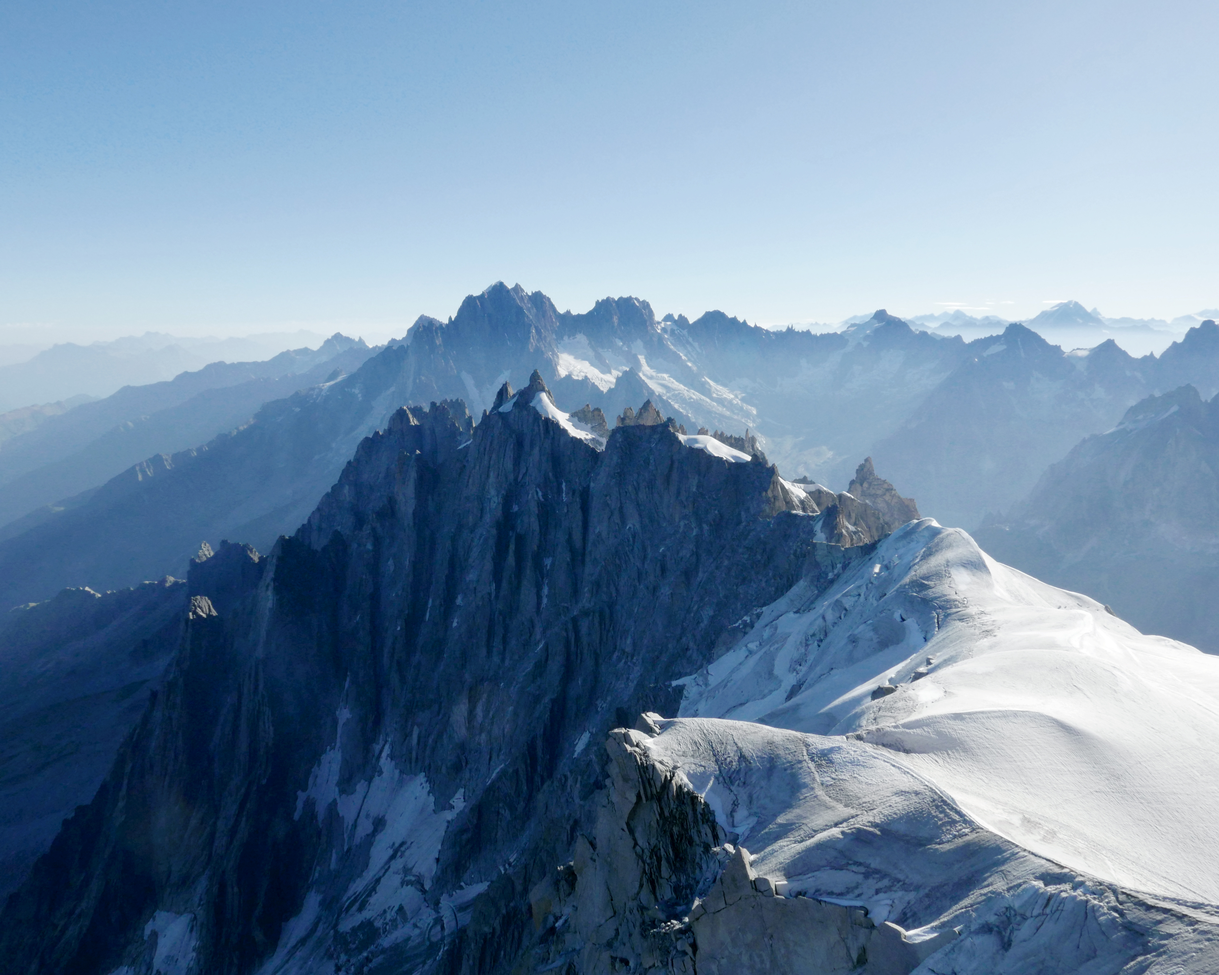
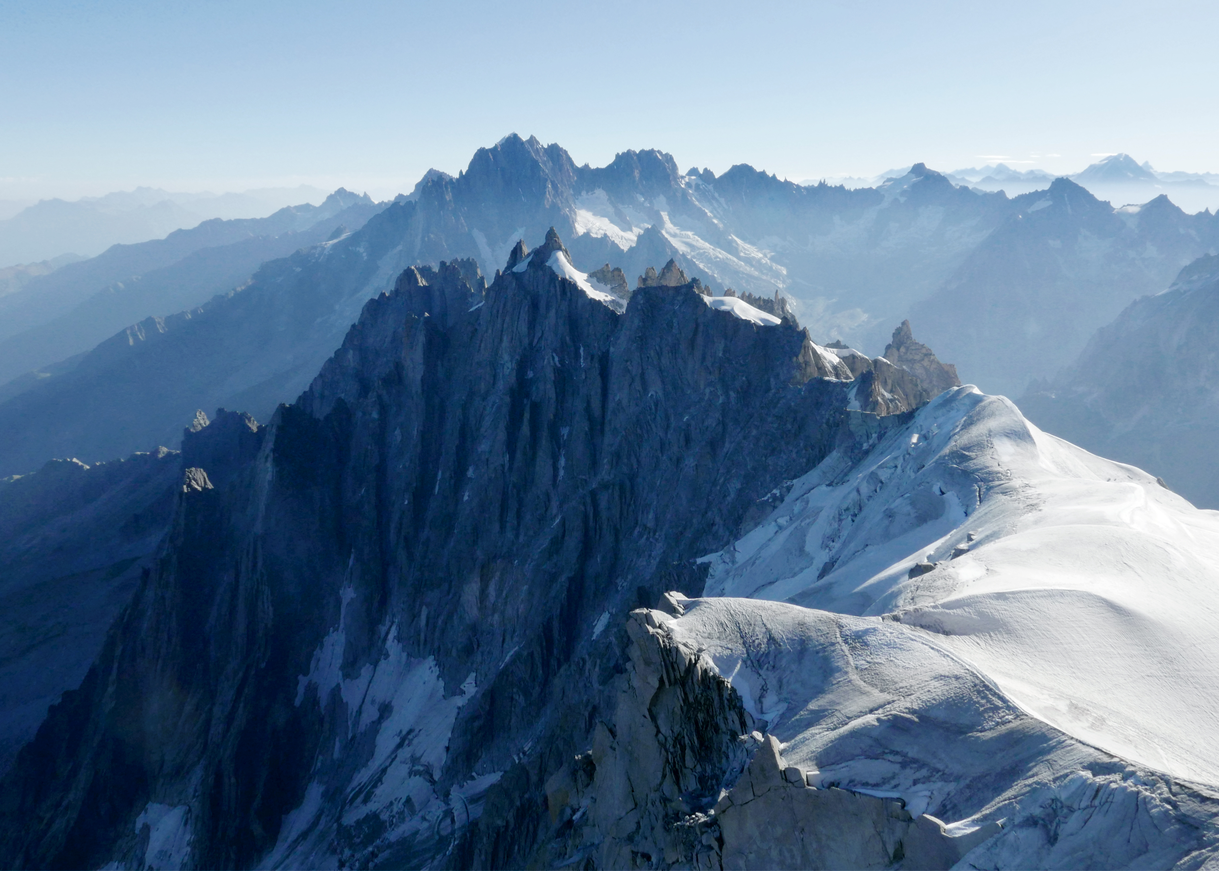
update

diff --git a/_posts/2023-08-19-FR.md b/_posts/2023-08-19-FR.md
@@ -7,8 +7,8 @@ date_end:   2023-08-21
 images:
   - ext:    2023-08-FR_00.jpg
     width:  3000
-    height: 2400
-    ar:			4-5
+    height: 2143
+    ar:			5-7
     meta:   Chamonix, France
 tags:
   - Travel
